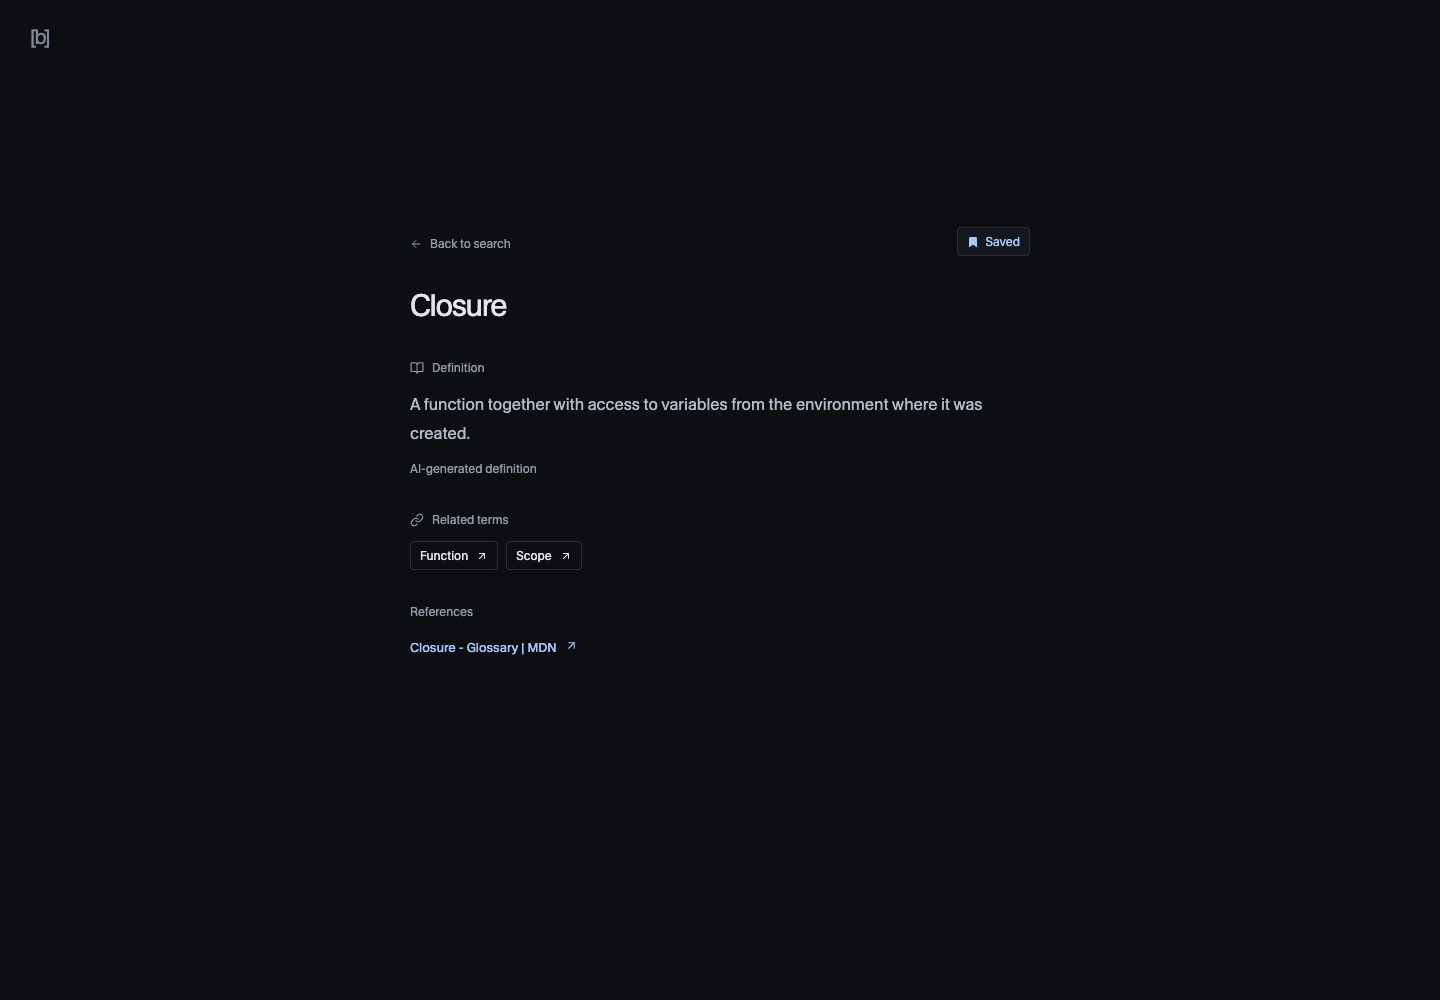
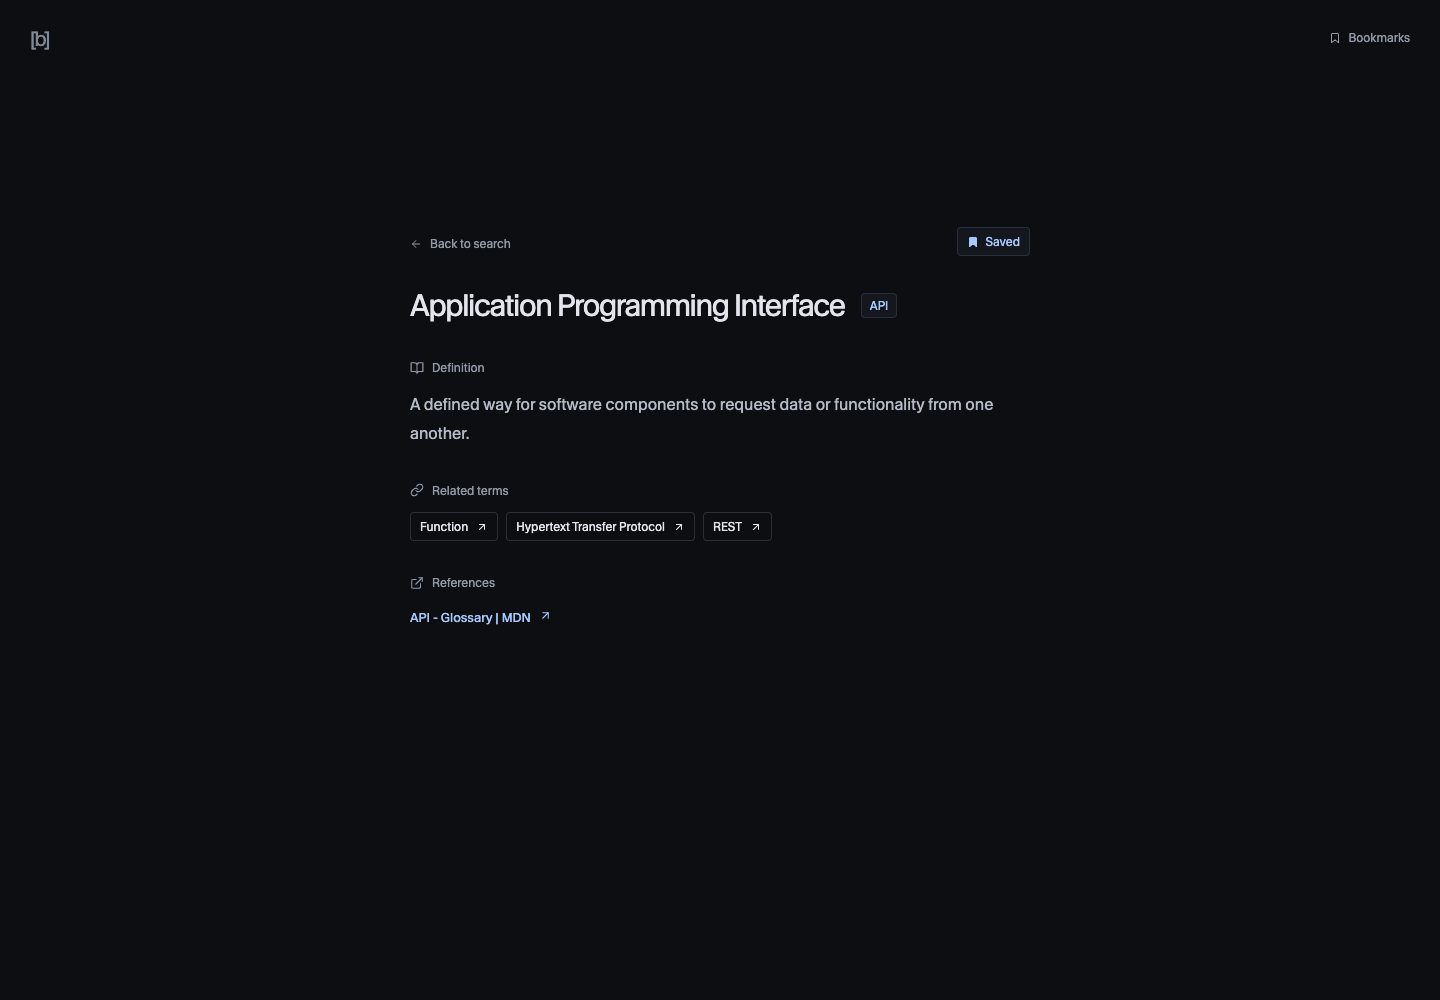
Add bookmarks page and complete term relationships and references

diff --git a/client/src/App.jsx b/client/src/App.jsx
@@ -1,5 +1,5 @@
 import React, { useEffect, useRef, useState } from 'react';
-import { FiArrowLeft, FiArrowUpRight, FiBookOpen, FiBookmark, FiLink, FiCornerDownLeft, FiSearch } from 'react-icons/fi';
+import { FiArrowLeft, FiArrowUpRight, FiBookOpen, FiBookmark, FiLink, FiExternalLink, FiCornerDownLeft, FiSearch } from 'react-icons/fi';
 
 async function searchTerms(query, signal) {
   const response = await fetch(`/api/terms?${new URLSearchParams({ q: query, suggest: true })}`, { signal });
@@ -130,7 +130,7 @@ function Search({ onChoose }) {
 const bookmarkKey = 'techtionary.bookmarks';
 function readBookmarks() {
   const saved = JSON.parse(localStorage.getItem(bookmarkKey) || '[]');
-  return Array.isArray(saved) ? saved.filter((id) => typeof id === 'string') : [];
+  return Array.isArray(saved) ? [...new Set(saved.filter((id) => typeof id === 'string' && id))] : [];
 }
 
 function Bookmark({ id }) {
@@ -143,7 +143,8 @@ function Bookmark({ id }) {
     }
     sync();
     window.addEventListener('storage', sync);
-    return () => window.removeEventListener('storage', sync);
+    window.addEventListener('bookmarks-changed', sync);
+    return () => { window.removeEventListener('storage', sync); window.removeEventListener('bookmarks-changed', sync); };
   }, [id]);
   function toggle() {
     try {
@@ -152,6 +153,7 @@ function Bookmark({ id }) {
       catch (error) { if (error instanceof SyntaxError) bookmarks = []; else throw error; }
       const exists = bookmarks.includes(id);
       localStorage.setItem(bookmarkKey, JSON.stringify(exists ? bookmarks.filter((value) => value !== id) : [...bookmarks, id]));
+      window.dispatchEvent(new Event('bookmarks-changed'));
       setSaved(!exists);
       setError('');
     } catch { setError('Could not save bookmark. Browser storage is unavailable.'); }
@@ -162,6 +164,60 @@ function Bookmark({ id }) {
     </button>
     {error && <p role="status" className="bookmark-error">{error}</p>}
   </div>;
+}
+
+function Bookmarks() {
+  const [entries, setEntries] = useState([]);
+  const [message, setMessage] = useState('Loading bookmarks…');
+  const [revision, setRevision] = useState(0);
+  const heading = useRef(null);
+  useEffect(() => {
+    heading.current?.focus();
+    const refresh = () => setRevision((value) => value + 1);
+    window.addEventListener('storage', refresh);
+    window.addEventListener('bookmarks-changed', refresh);
+    return () => { window.removeEventListener('storage', refresh); window.removeEventListener('bookmarks-changed', refresh); };
+  }, []);
+  useEffect(() => {
+    const controller = new AbortController();
+    async function load() {
+      try {
+        const ids = readBookmarks();
+        setMessage(ids.length ? 'Loading bookmarks…' : 'No bookmarks yet. Save a term to find it here.');
+        const results = [];
+        // Bound concurrent requests while reusing the term endpoint.
+        for (let start = 0; start < ids.length; start += 8) {
+          if (controller.signal.aborted) return;
+          results.push(...await Promise.all(ids.slice(start, start + 8).map(async (id) => {
+            try {
+              const response = await fetch(`/api/terms/${encodeURIComponent(id)}`, { signal: controller.signal });
+              if (response.status === 404) return { _id: id, name: 'Term no longer available', unavailable: true };
+              if (!response.ok) throw new Error('Request failed');
+              return (await response.json()).term;
+            } catch { return { _id: id, name: 'Could not load this term', unavailable: true, retryable: true }; }
+          })));
+        }
+        if (!controller.signal.aborted) { setEntries(results); if (ids.length) setMessage(''); }
+      } catch {
+        if (!controller.signal.aborted) { setEntries([]); setMessage('Bookmarks could not be read from this browser.'); }
+      }
+    }
+    load();
+    return () => controller.abort();
+  }, [revision]);
+  return <section className="definition-page bookmarks-page">
+    <a className="back-link" href="#/"><FiArrowLeft aria-hidden="true" /> Back to search</a>
+    <h1 ref={heading} tabIndex={-1}>Bookmarks</h1>
+    <p className="empty-detail">Saved in this browser.</p>
+    {message && <p role="status">{message}</p>}
+    {!message && <ul className="bookmark-list">{entries.map((term) => <li key={term._id}>
+      <div>{term.unavailable ? <p>{term.name}</p> : <>
+        <a href={`#/terms/${encodeURIComponent(term._id)}`}>{term.name}<FiArrowUpRight aria-hidden="true" /></a>
+        <p>{term.definition}</p>
+      </>}{term.retryable && <button className="retry" onClick={() => setRevision((value) => value + 1)}>Retry</button>}</div>
+      <Bookmark id={term._id} />
+    </li>)}</ul>}
+  </section>;
 }
 
 function Definition({ id }) {
@@ -215,7 +271,7 @@ function Definition({ id }) {
           </ul> : <p className="empty-detail">No related terms yet.</p>}
         </section>
         <section className="definition-section" aria-labelledby="references-heading">
-          <h2 id="references-heading">References</h2>
+          <h2 id="references-heading"><FiExternalLink aria-hidden="true" /> References</h2>
           {term.references?.length ? <ul className="reference-links">
             {term.references.map((reference, index) => <li key={`${reference.url}-${index}`}><a href={reference.url} target="_blank" rel="noopener noreferrer">
               {reference.title || reference.url}<FiArrowUpRight aria-hidden="true" /><span className="sr-only"> (opens in a new tab)</span>
@@ -260,8 +316,11 @@ export default function App() {
   const match = route.match(/^#\/terms\/([^/]+)$/);
   return (
     <main ref={page}>
-      <a className="brand-mark" href="#/" aria-label="Buzzword Techtionary home">[b]</a>
-      {match ? <Definition key={match[1]} id={match[1]} /> : <Search onChoose={openDefinition} />}
+      <header className="site-header">
+        <a className="brand-mark" href="#/" aria-label="Buzzword Techtionary home">[b]</a>
+        <nav aria-label="Main navigation"><a className="bookmarks-link" href="#/bookmarks" aria-current={route === '#/bookmarks' ? 'page' : undefined}><FiBookmark aria-hidden="true" /> Bookmarks</a></nav>
+      </header>
+      {match ? <Definition key={match[1]} id={match[1]} /> : route === '#/bookmarks' ? <Bookmarks /> : <Search onChoose={openDefinition} />}
     </main>
   );
 }

diff --git a/scripts/complete-term-details.js b/scripts/complete-term-details.js
@@ -1,0 +1,51 @@
+import { readFile } from 'node:fs/promises';
+import { connectDatabase } from '../server/database.js';
+
+const mappings = [
+  ['Application Programming Interface', 'API', ['REST', 'HTTP', 'Function']],
+  ['Artificial Intelligence', null, ['Machine Learning', 'Algorithm']],
+  ['Continuous Integration', 'Continuous integration', ['Git', 'Version Control']],
+  ['Database', 'Database', ['SQL', 'CRUD', 'Data type']],
+  ['Domain Name System', 'DNS', ['IP address', 'URL']],
+  ['Hypertext Transfer Protocol', 'HTTP', ['HTTPS', 'Web server', 'REST']],
+  ['JavaScript', 'JavaScript', ['HTML', 'DOM', 'Function']],
+  ['Machine Learning', null, ['Artificial Intelligence', 'Algorithm', 'Database']],
+  ['Structured Query Language', 'SQL', ['Database', 'SQL injection', 'CRUD']],
+  ['Version Control', 'Version control', ['Git', 'Continuous Integration']],
+];
+const checks = JSON.parse(await readFile(new URL('../data/us02-reference-checks.json', import.meta.url), 'utf8'));
+const references = new Map();
+for (const [name, source] of mappings) {
+  const url = source ? checks.find((check) => check.name === source)?.url : 'https://developers.google.com/machine-learning/glossary';
+  if (!url) throw new Error(`Missing reference for ${name}`);
+  const response = await fetch(url, { signal: AbortSignal.timeout(20000) });
+  const html = await response.text();
+  const title = html.match(/<title>(.*?)<\/title>/s)?.[1]?.trim();
+  if (!response.ok || !title || /Page not found/i.test(title)) throw new Error(`Reference failed: ${name}`);
+  references.set(name, [{ title, url: response.url, checkedAt: new Date() }]);
+}
+const { client, collection } = await connectDatabase();
+try {
+  const terms = await collection.find({}).toArray();
+  const lookup = new Map();
+  for (const term of terms) for (const name of [term.name, ...(term.aliases || [])]) lookup.set(name.toLowerCase(), term);
+  const updates = mappings.flatMap(([name, , related]) => {
+    const term = lookup.get(name.toLowerCase());
+    if (!term) throw new Error(`Missing term: ${name}`);
+    const fields = {};
+    if (!term.relatedTerms?.length) fields.relatedTerms = related.map((name) => {
+      const target = lookup.get(name.toLowerCase());
+      if (!target) throw new Error(`Missing related term: ${name}`);
+      return target._id;
+    });
+    if (!term.references?.length) fields.references = references.get(name);
+    return Object.keys(fields).length ? [{ updateOne: { filter: { _id: term._id }, update: { $set: { ...fields, updatedAt: new Date() } } } }] : [];
+  });
+  console.log(JSON.stringify({ mode: process.argv.includes('--apply') ? 'apply' : 'preview', updates: updates.length }));
+  if (process.argv.includes('--apply') && updates.length) await collection.bulkWrite(updates);
+  const saved = await collection.find({}, { projection: { relatedTerms: 1, references: 1 } }).toArray();
+  const ids = new Set(saved.map((term) => String(term._id)));
+  const report = { total: saved.length, withoutRelatedTerms: saved.filter((term) => !term.relatedTerms?.length).length, withoutReferences: saved.filter((term) => !term.references?.length).length, danglingLinks: saved.flatMap((term) => term.relatedTerms || []).filter((id) => !ids.has(String(id))).length };
+  console.log(JSON.stringify(report));
+  if (process.argv.includes('--apply') && (report.withoutRelatedTerms || report.withoutReferences || report.danglingLinks)) throw new Error('Incomplete term coverage');
+} finally { await client.close(); }

diff --git a/client/src/App.test.jsx b/client/src/App.test.jsx
@@ -190,3 +190,40 @@ test('storage failure does not claim a bookmark was saved', async () => {
     expect(screen.getByText('Could not save bookmark. Browser storage is unavailable.')).toBeTruthy();
   } finally { setter.mockRestore(); }
 });
+
+test('bookmarks navigation lists saved terms, opens them, and removes saved entries', async () => {
+  localStorage.setItem('techtionary.bookmarks', JSON.stringify(['api', 'ai']));
+  mockSearch();
+  render(<App />);
+  await userEvent.click(screen.getByRole('link', { name: 'Bookmarks', exact: true }));
+  await screen.findByRole('link', { name: term.name });
+  expect(screen.getByRole('link', { name: second.name })).toBeTruthy();
+  await userEvent.click(screen.getByRole('link', { name: term.name }));
+  await screen.findByRole('heading', { name: term.name });
+  await userEvent.click(screen.getByRole('button', { name: 'Remove bookmark' }));
+  await userEvent.click(screen.getByRole('link', { name: 'Bookmarks', exact: true }));
+  await screen.findByRole('link', { name: second.name });
+  expect(screen.queryByRole('link', { name: term.name })).toBeNull();
+  await userEvent.click(screen.getByRole('button', { name: 'Remove bookmark' }));
+  await screen.findByText('No bookmarks yet. Save a term to find it here.');
+});
+
+test('bookmarks retain unavailable entries and allow retrying a failed load', async () => {
+  localStorage.setItem('techtionary.bookmarks', JSON.stringify(['api', 'missing']));
+  window.history.replaceState(null, '', '/#/bookmarks');
+  vi.stubGlobal('fetch', vi.fn(async (url) => ({ ok: false, status: url.endsWith('/missing') ? 404 : 503 })));
+  render(<App />);
+  await screen.findByText('Could not load this term');
+  expect(screen.getByText('Term no longer available')).toBeTruthy();
+  expect(JSON.parse(localStorage.getItem('techtionary.bookmarks'))).toEqual(['api', 'missing']);
+  mockSearch();
+  await userEvent.click(screen.getByRole('button', { name: 'Retry' }));
+  await screen.findAllByRole('link', { name: term.name });
+});
+
+test('bookmarks page reports malformed storage without crashing', async () => {
+  localStorage.setItem('techtionary.bookmarks', '{invalid');
+  window.history.replaceState(null, '', '/#/bookmarks');
+  render(<App />);
+  await screen.findByText('Bookmarks could not be read from this browser.');
+});

diff --git a/client/src/styles.css b/client/src/styles.css
@@ -70,8 +70,9 @@ input:focus-visible { outline: none; }
 
 .definition-page .back-link { animation: fade-up 240ms ease-out both; }
 .definition-page .term-heading { animation: fade-up 320ms ease-out 60ms both; }
-.definition-section h2 { animation: fade-up 320ms ease-out 140ms both; }
-.definition-section .definition { animation: fade-up 360ms ease-out 220ms both; }
+.definition-section { animation: fade-up 360ms ease-out 140ms both; }
+.definition-section[aria-labelledby='related-heading'] { animation-delay: 220ms; }
+.definition-section[aria-labelledby='references-heading'] { animation-delay: 300ms; }
 
 @media (prefers-reduced-motion: reduce) {
   *, *::before, *::after { animation: none !important; transition: none !important; }
@@ -91,3 +92,15 @@ input:focus-visible { outline: none; }
 .reference-links a { display: inline-flex; align-items: baseline; gap: 8px; font-size: 13px; color: var(--primary); overflow-wrap: anywhere; }
 .reference-links a:hover { text-decoration: underline; }
 .reference-links svg, .related-terms svg { flex-shrink: 0; }
+
+.site-header { display: flex; align-items: center; justify-content: space-between; gap: 20px; }
+.bookmarks-link { display: inline-flex; align-items: center; gap: 7px; font-size: 12px; color: var(--muted); }
+.bookmarks-link:hover, .bookmarks-link[aria-current='page'] { color: var(--primary); }
+.bookmark-list { list-style: none; margin: 28px 0 0; padding: 0; }
+.bookmark-list > li { display: flex; align-items: flex-start; justify-content: space-between; gap: 16px; padding: 18px 0; border-bottom: 1px solid var(--line); }
+.bookmark-list > li > div:first-child { min-width: 0; }
+.bookmark-list a { display: inline-flex; align-items: baseline; gap: 8px; color: var(--primary); overflow-wrap: anywhere; }
+.bookmark-list a svg { flex-shrink: 0; }
+.bookmark-list p { color: var(--muted); font-size: 13px; margin: 6px 0 0; overflow-wrap: anywhere; }
+.bookmark-list .bookmark-control { flex-shrink: 0; }
+.bookmark-list .bookmark-error { max-width: 120px; }

diff --git a/data/README.md b/data/README.md
@@ -11,3 +11,12 @@ node --env-file=.env scripts/import-us02-terms.js --apply  # Import 100 terms
 ```
 
 The import preserves existing documents, writes the batch in one transaction, and verifies the saved count and related IDs. New documents use `relatedTerms` (ObjectId array), `references` (title, URL, check date), `origin: 'ai-generated'`, and timestamps. Repeating a completed batch makes no changes.
+
+Fill missing related terms and references on the original 10 entries:
+
+```sh
+node --env-file=.env scripts/complete-term-details.js          # Preview
+node --env-file=.env scripts/complete-term-details.js --apply  # Fill missing fields
+```
+
+This checks reference pages before writing and reports coverage and dangling links across the entire collection.
